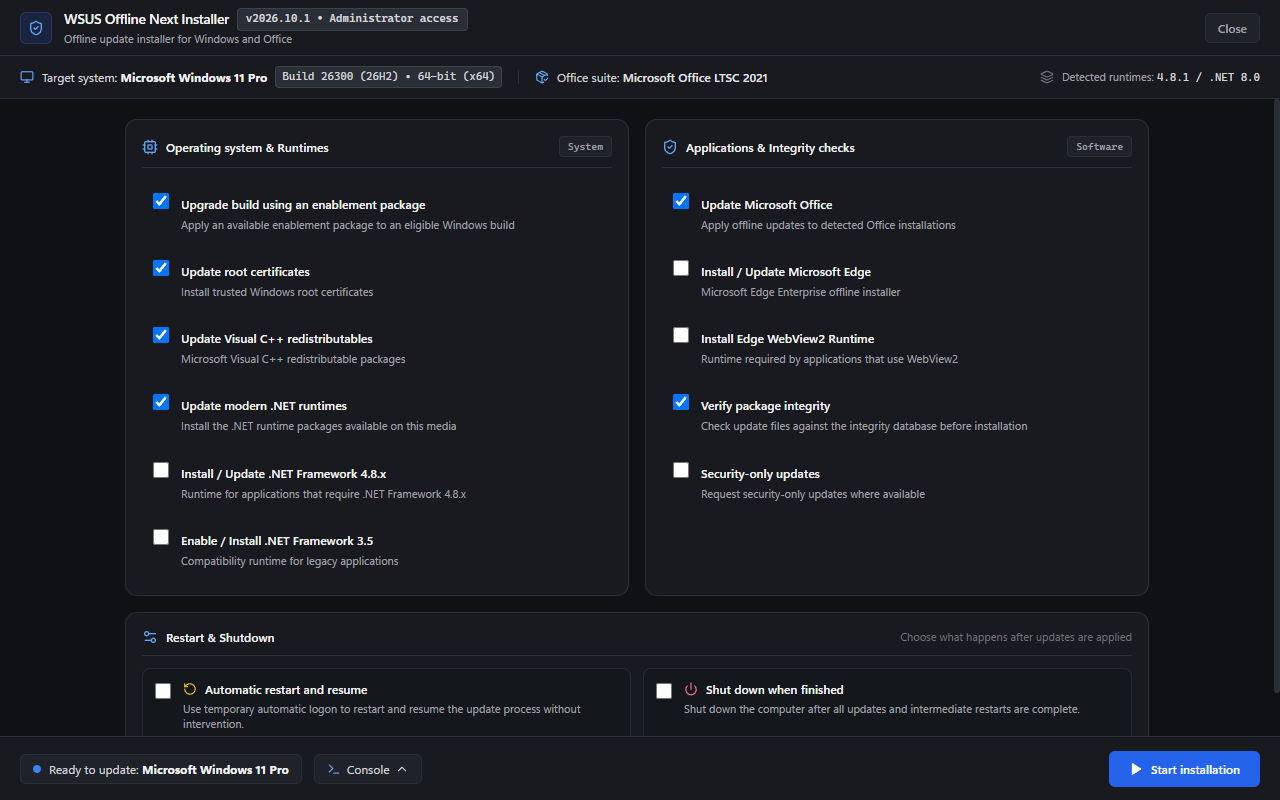
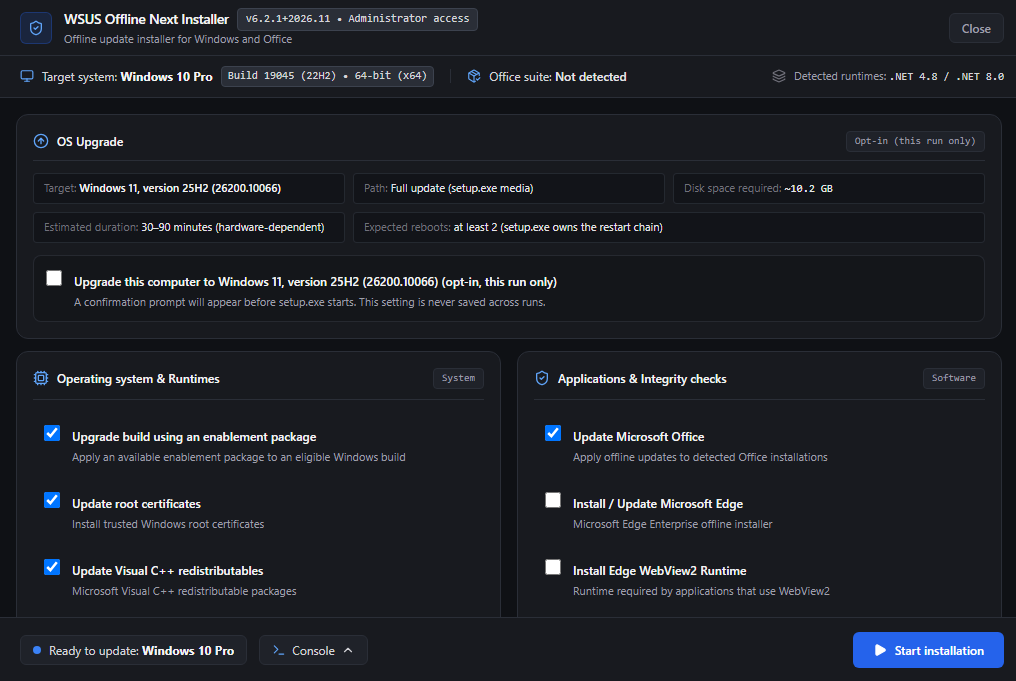
docs(readme): document OS upgrades, modern installer consent/resume, and refresh screenshots

diff --git a/README.md b/README.md
@@ -20,11 +20,23 @@ Independent successor to WSUS Offline Update Community Edition. Current version:
 ## Features
 
 - **Windows updates** from Microsoft's `wsusscn2.cab` catalog: Windows 11 (24H2, 25H2, 26H2), Windows 10 (x86/x64), Server 2016/2019/2022. Checkpoint-first ordering of cumulative updates and enablement-package eligibility checks on the 26100 branch.
+- **Offline OS upgrades (Windows 10 & 11)**: in-branch enablement packages (EKB) and full feature-update media (`setup.exe`, including Windows 10 → Windows 11 25H2) selected in the Generator's **OS Upgrades** tab and applied on the client via an explicit 5-fact opt-in confirmation (never persisted across runs).
+- **Post-reboot resume**: handles `3010`/`3011` restarts with an in-app restart prompt and upgrade-surviving `/resume` persistence (`RunOnce`, `\WOUResume` Scheduled Task, `%ProgramData%\WSUSOffline`).
 - **Office**: 2016 MSI through the WSUS catalog; 2019, LTSC 2021, and LTSC 2024 Click-to-Run through the Office Deployment Tool (ODT).
 - **Optional packages**: Edge, WebView2, Defender definitions, Visual C++, .NET Framework, .NET 8/10 runtimes.
 - **Audit mode**: `/auditonly` reports applicable updates without installing anything.
 - **Integrity**: hash verification, fail-closed servicing paths, restart-loop protection.
 - **Offline runtime bootstrap**: the client launcher installs missing .NET 8 Desktop and WebView2 runtimes from the media itself, otherwise it falls back to the native installer.
+
+## Screenshots
+
+| Generator — OS Upgrades | Modern Installer — OS Upgrade offer |
+| :---: | :---: |
+| ![Generator OS Upgrades tab](doc/screenshots/generator-upgrades.png) | ![Modern Installer showing the 5-fact OS Upgrade card](doc/screenshots/installer-main.png) |
+
+| 5-fact OS Upgrade confirmation | Post-upgrade console & EKB adaptation |
+| :---: | :---: |
+| ![Modern Installer 5-fact OS Upgrade confirmation modal](doc/screenshots/installer-upgrade-modal.png) | ![Modern Installer running on Windows 11 with live console](doc/screenshots/installer-console.png) |
 
 ## Quick start
 
@@ -36,9 +48,9 @@ Download the latest archive from [Releases](https://github.com/CatFoxVoyager/Wsu
 UpdateGenerator.cmd
 ```
 
-Select Windows builds and Office products, keep **Verify downloaded files** enabled, click **Start download**. Check `log/download.log` for errors.
+Select Windows builds, Office products, and any optional **OS Upgrades** targets, keep **Verify downloaded files** enabled, click **Start download**. Check `log/download.log` for errors.
 
-**2. Copy the whole `client/` directory** to a USB drive or other media.
+**2. Copy the whole `client/` directory** to a USB drive or other media (exFAT/NTFS recommended for >4 GB upgrade media).
 
 **3. On the offline computer** (accept the UAC prompt):
 
@@ -46,7 +58,7 @@ Select Windows builds and Office products, keep **Verify downloaded files** enab
 client\UpdateInstaller.cmd
 ```
 
-Keep **Verify package integrity** enabled and click **Start installation**. If a restart is required, restart and run it again, or enable **Automatic restart and resume**.
+Keep **Verify package integrity** enabled, opt in to **OS Upgrade** if staged media is available and desired (confirmed by a 5-fact prompt), and click **Start installation**. If a restart is required (`3010`/`3011`), accept the restart prompt or enable **Automatic restart and resume**.
 
 ## Requirements
 
@@ -65,6 +77,9 @@ Download (from the project root):
 rem Windows x64 (includes Windows 11) with .NET, Defender, Edge, WebView2
 cmd\DownloadUpdates.cmd w100-x64 glb /includedotnet /includewddefs /includeedge /includewebview2 /verify
 
+rem Stage offline OS upgrade media (example: Windows 11 25H2 build 26200)
+cmd\DownloadUpdates.cmd w100-x64 glb /includeupgrade:26200 /verify
+
 rem Office Click-to-Run: o2k19 | o2k21 | o2k24, then x86 | x64, optional language
 cmd\DownloadOfficeC2R.cmd o2k24 x64 en-us
 
@@ -80,16 +95,18 @@ Install or audit (elevated prompt):
 ```cmd
 client\cmd\DoUpdate.cmd /auditonly
 client\cmd\DoUpdate.cmd /verify /updateoffice /showlog
+client\cmd\DoUpdate.cmd /upgradeos:26200 /autoreboot
 ```
 
 | Option | Effect |
 | :--- | :--- |
 | `/auditonly` | Write an applicability report, install nothing. |
+| `/upgradeos:<build>` | Opt-in offline OS upgrade to `<build>` (per-run only, never persisted to INI). |
 | `/verify` | Verify package integrity before installation. |
 | `/updateoffice` | Service detected Office installations. |
 | `/updatecpp` | Install Visual C++ redistributables. |
 | `/updatedotnet5` | Install modern .NET runtimes (legacy switch name). |
-| `/autoreboot` | Temporary autologon with restart/resume. |
+| `/autoreboot` | Register post-reboot restart/resume (`RunOnce` + `\WOUResume` on Win10+). |
 | `/shutdown` | Shut down when done. |
 | `/showlog` | Open the log when done. |
 
@@ -146,6 +163,7 @@ Tests:
 
 ```powershell
 .\tests\verify-gui-contracts.cmd
+.\tests\verify-upgrade-phase-gate.cmd
 .\tests\verify-offline-audit.cmd
 .\tests\verify-checkpoint-servicing.cmd
 .\tests\verify-win11-26h1.cmd
